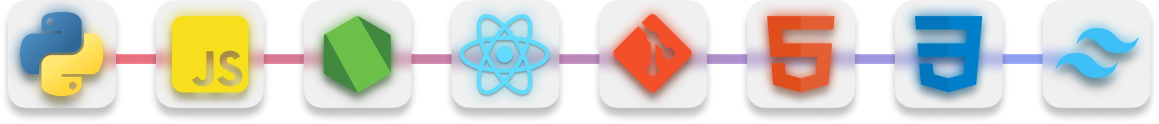
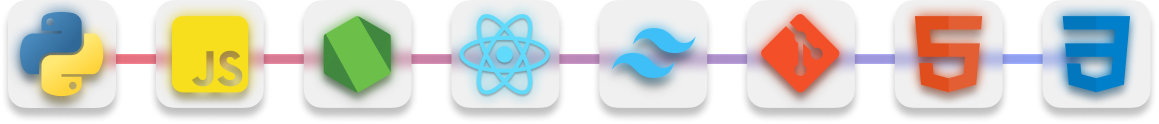
Mundaça na imagem linguagensTecnologias

diff --git a/README.md b/README.md
@@ -32,7 +32,7 @@ ____________________________
 
 ### [![Typing SVG](https://readme-typing-svg.herokuapp.com?font=Lexend&size=25&duration=2000&pause=4000&color=FF3641&vCenter=true&width=435&height=30&lines=Linguagens+e+tecnologias)](https://git.io/typing-svg)
 
-<img src="./images/linguagensTecnologias.png" width="600"/>
+<img src="./images/linguagensTecnologias2.png" width="400"/>
 
 <br>
 
